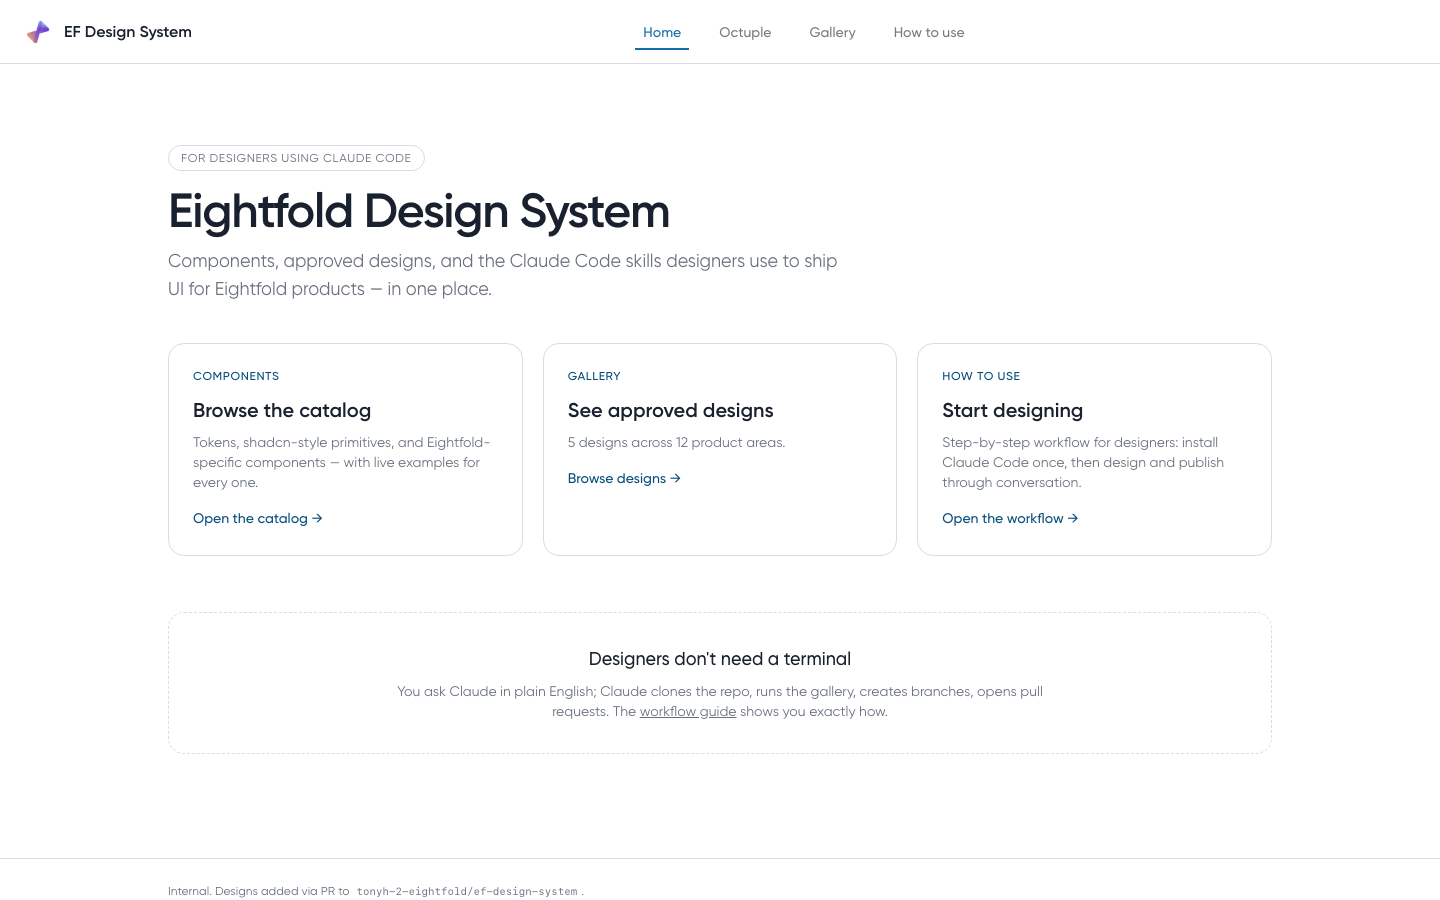
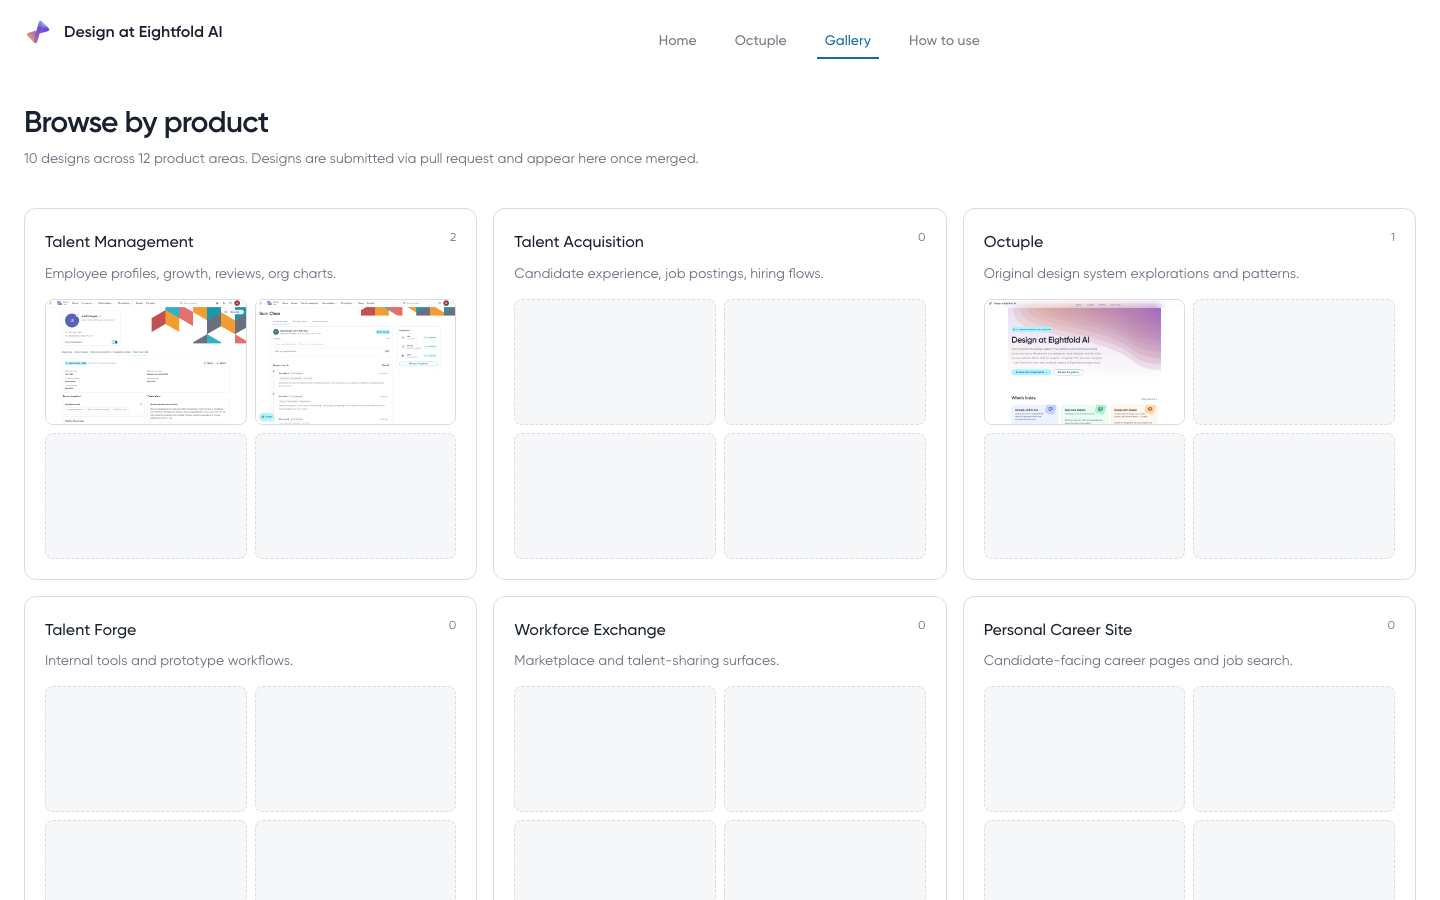
docs(workflow): drop "Capture a thumbnail" + refresh gallery shots
- Remove day-to-day step 6 "Capture a thumbnail." Designers don't
  need a separate step — publish-design captures or asks for the
  thumbnail path. Renumber Publish 7→6, After PR 8→7.
- Step 5 "Check accessibility" now wired to
  step-day-05-check-a11y.png (file already placed in
  web/public/docs-screenshots/).
- Drop screenshot slot from "Locally (works any time, even offline)"
  — it was perpetually a placeholder.
- Recapture step-13-design-in-gallery.png and step-14-gallery-online.png
  from the live Vercel deploy at 1440x900. Both now show the new
  2x2-thumbnail card style + grey placeholders.

Also captures the recently added step-day-01-clone-repo and
step-day-05-check-copy files that were already on disk but not
yet committed.

diff --git a/web/app/(site)/docs/workflow/page.tsx b/web/app/(site)/docs/workflow/page.tsx
@@ -285,6 +285,8 @@ export default function WorkflowPage() {
       <Step
         number={5}
         title="Check accessibility"
+        screenshot="step-day-05-check-a11y.png"
+        caption="Claude scanning the design for WCAG 2.2 AA issues and reporting which checks ran and what needs a human pass."
       >
         <p>
           Then ask Claude to verify accessibility against WCAG 2.2 AA — the standard most Eightfold
@@ -313,18 +315,6 @@ export default function WorkflowPage() {
 
       <Step
         number={6}
-        title="Capture a thumbnail"
-        screenshot="step-day-06-screenshot-tool.png"
-        caption="macOS Cmd+Shift+4 selection screenshot tool capturing the design."
-      >
-        <p>
-          Take a screenshot of the design (your OS's screenshot tool is fine — <strong>Cmd+Shift+4</strong>{" "}
-          on Mac for a region). Save it somewhere you remember.
-        </p>
-      </Step>
-
-      <Step
-        number={7}
         title="Publish"
         screenshot="step-day-07-publish.png"
         caption="Claude Code running the publish-design skill: asking for title, category, slug, then opening the PR."
@@ -379,7 +369,7 @@ export default function WorkflowPage() {
       </Step>
 
       <Step
-        number={8}
+        number={7}
         title="After the PR merges"
         screenshot="step-13-design-in-gallery.png"
         caption="The published design appearing on the gallery's product-area page."
@@ -409,8 +399,6 @@ export default function WorkflowPage() {
 
       <Step
         title="Locally (works any time, even offline)"
-        screenshot="step-15-gallery-local.png"
-        caption="The gallery running locally at http://localhost:3000."
       >
         <blockquote className="border-l-4 border-[var(--primary)] bg-[var(--card)] py-2 pl-4 italic text-[var(--muted-foreground)]">
           <strong>You:</strong> Start the design gallery so I can browse it.